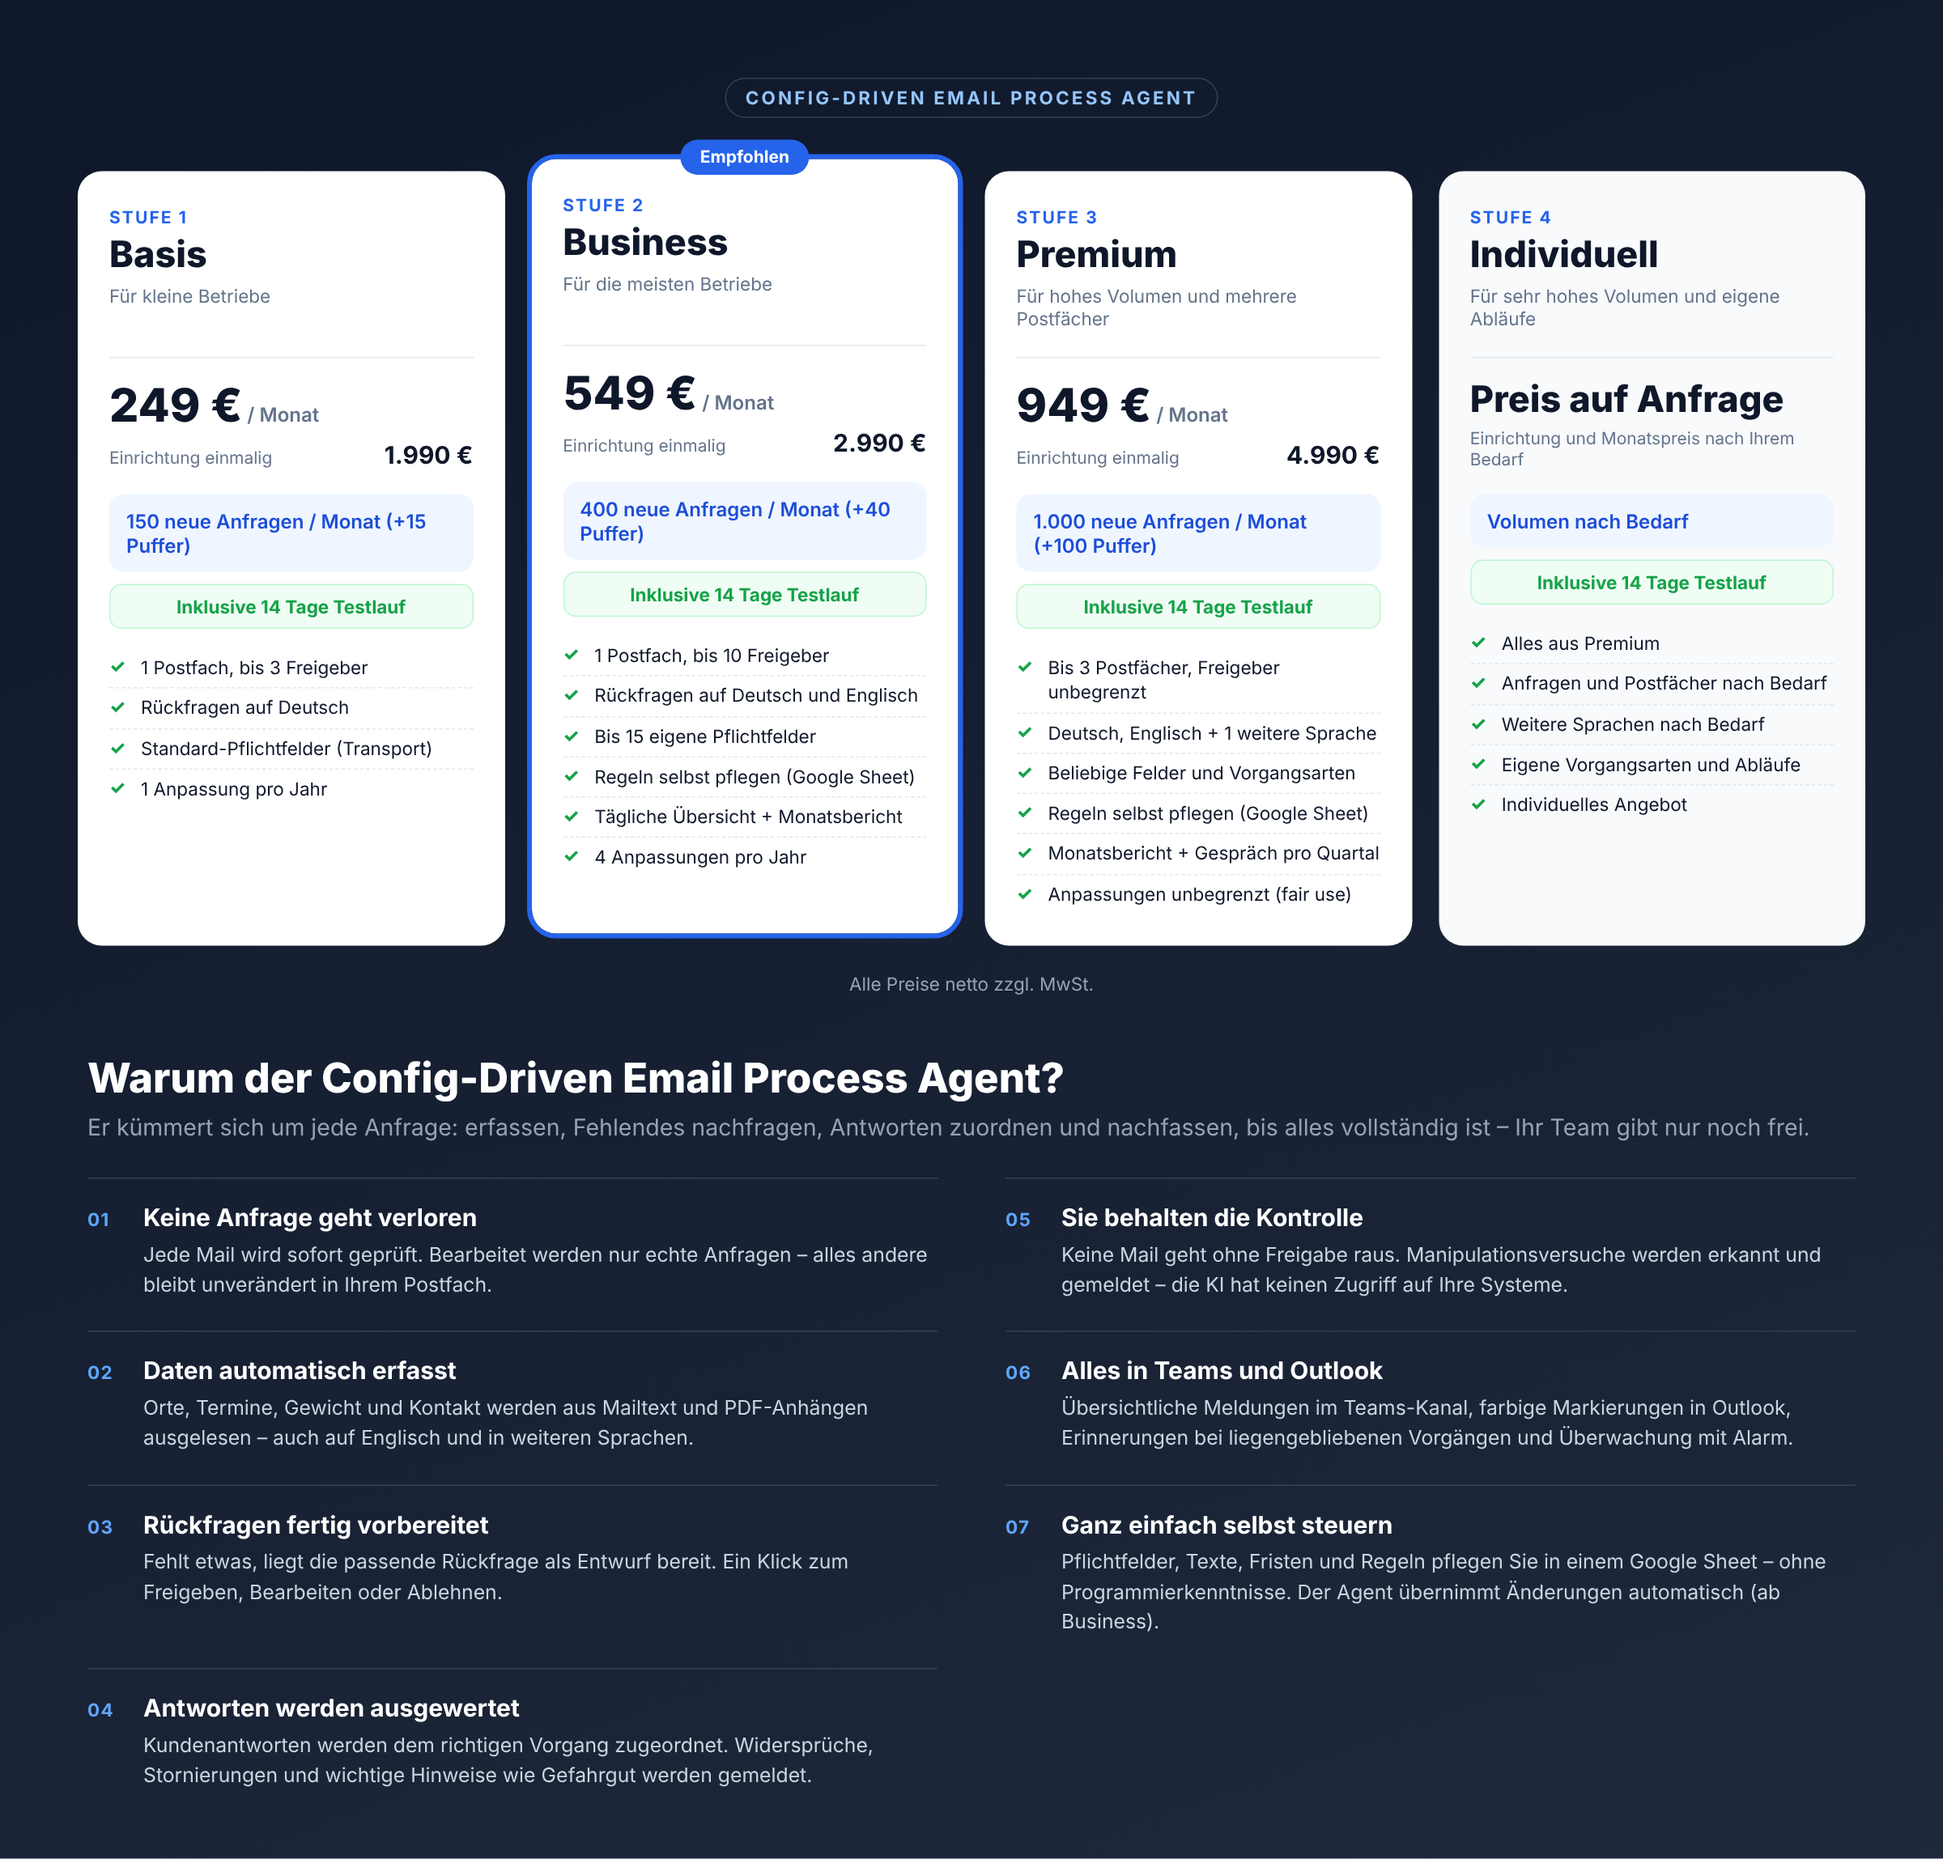
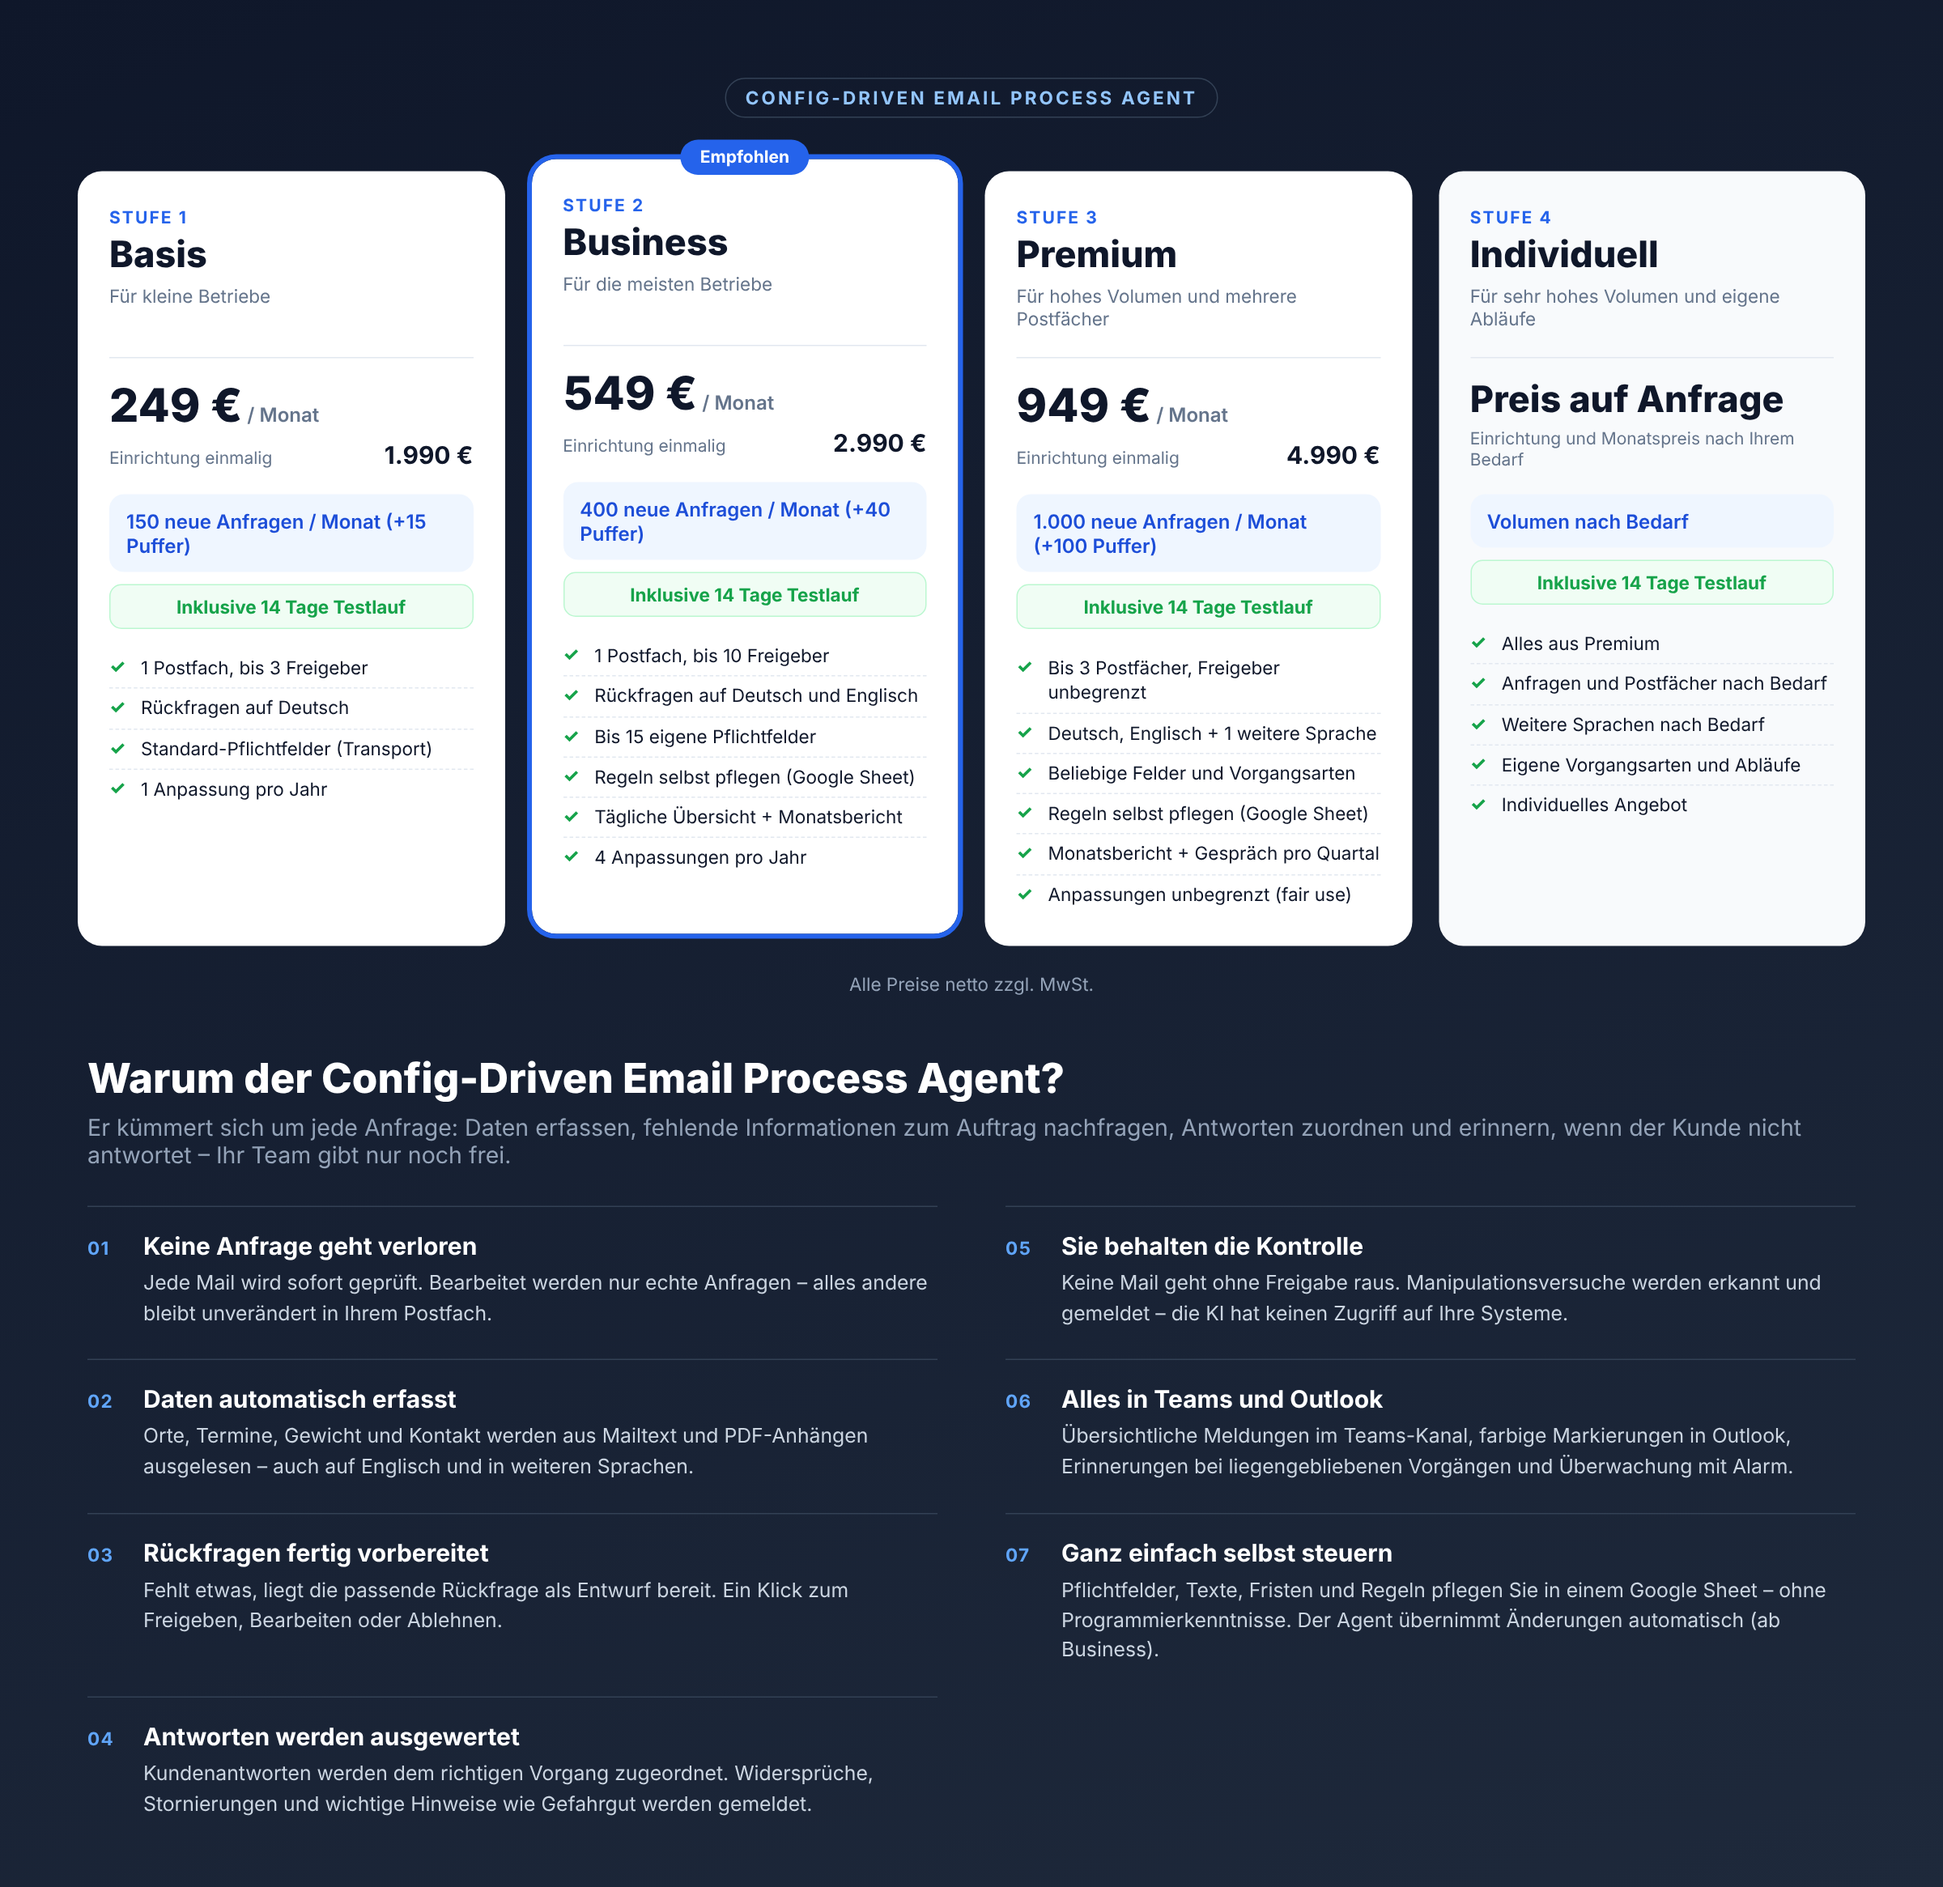
Marketing: Untertitel präzisiert (nachfragen vs. erinnern)
Claude-Session: https://claude.ai/code/session_01DWBN4EiRV4Kip9NV7YGeLF

diff --git a/email-process-agent/docs/marketing/pakete.html b/email-process-agent/docs/marketing/pakete.html
@@ -138,7 +138,7 @@ li::before{content:"✓";position:absolute;left:0;top:5px;color:var(--ok);font-w
 
 <div class="vorteile">
   <h2>Warum der Config-Driven Email Process Agent?</h2>
-  <div class="sub">Er kümmert sich um jede Anfrage: erfassen, Fehlendes nachfragen, Antworten zuordnen und nachfassen, bis alles vollständig ist – Ihr Team gibt nur noch frei.</div>
+  <div class="sub">Er kümmert sich um jede Anfrage: Daten erfassen, fehlende Informationen zum Auftrag nachfragen, Antworten zuordnen und erinnern, wenn der Kunde nicht antwortet – Ihr Team gibt nur noch frei.</div>
   <div class="liste">
     <div class="pt"><div class="nr">01</div><div><h3>Keine Anfrage geht verloren</h3><p>Jede Mail wird sofort geprüft. Bearbeitet werden nur echte Anfragen – alles andere bleibt unverändert in Ihrem Postfach.</p></div></div>
     <div class="pt"><div class="nr">02</div><div><h3>Daten automatisch erfasst</h3><p>Orte, Termine, Gewicht und Kontakt werden aus Mailtext und PDF-Anhängen ausgelesen – auch auf Englisch und in weiteren Sprachen.</p></div></div>
